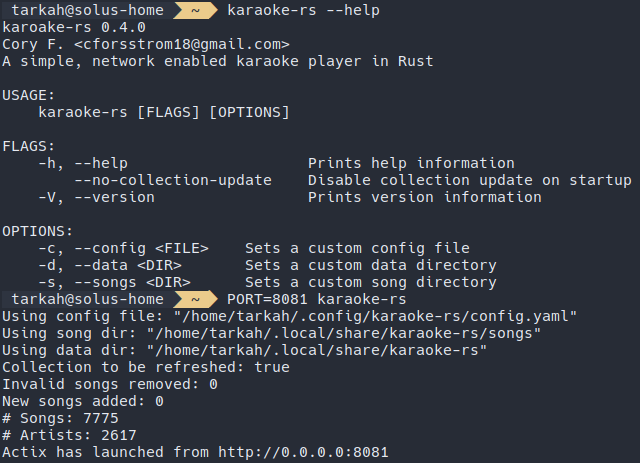
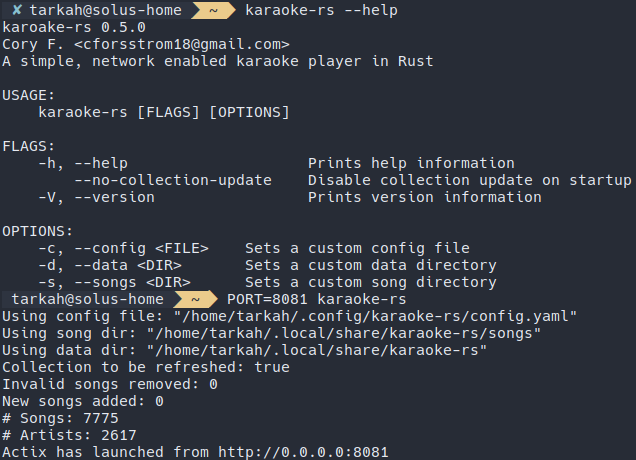
Bump to version 0.5.0
Changes:
- Switched from SFML to ggez for audio and video. Binaries can now run
out of the box on any platform!
- CI with Azue Pipelines!

diff --git a/src/main.rs b/src/main.rs
@@ -39,7 +39,7 @@ fn main() -> Result<(), failure::Error> {
 
 fn get_config() -> Result<Config, failure::Error> {
     let matches = App::new("karoake-rs")
-        .version("0.4.0")
+        .version("0.5.0")
         .author("Cory F. <cforsstrom18@gmail.com>")
         .about("A simple, network enabled karaoke player in Rust")
         .arg(

diff --git a/README.md b/README.md
@@ -2,19 +2,20 @@
 
 A simple, network enabled karaoke player in Rust. 
 
-Your karaoke collection can be browsed and queued to the player from a self served website. Currently only supports MP3+G (mp3 & corresponding cdg) files. Only tested on Linux and Windows, but pull requests are welcome to get working on OSX.
+Your karaoke collection can be browsed and queued to the player from a self served website. Currently only supports MP3+G (mp3 & corresponding cdg) files.
+
+**_Now built off [ggez](https://github.com/ggez/ggez)! No more dependency on SFML, the binaries should run out of the box on any system._**
 
 
 ## Setup
 ### Linux
-- Install SFML and CSFML bindings to run, required by rust-sfml -- see [link to help setup](https://github.com/jeremyletang/rust-sfml/wiki/Linux)
 - Download latest release binary or compile from source -- `cargo build --release`
 - Run `karaoke-rs --help` to see all arguments
 - Place your song collection at `~/.local/share/karaoke-rs/songs`, or specify location via `--songs path/to/song/directory`
 - Default configuration file is created at `~/.config/karaoke-rs/config.yaml`. This can be copied / changed and specified via `--config path/to/config.yaml`
 
 ### Windows
-- Download latest release
+- Download latest release binary or compile from source -- `cargo build --release`
 - Double click `karaoke-rs.exe` to run with default configuration. Run from command prompt / powershell `karaoke-rs.exe --help` to see all arguments
 - Place your song collection at `%APPDATA%\karaoke-rs\songs`, or specify location via `--songs C:\path\to\song\directory`
 - Default configuration file is created at `%APPDATA%\karaoke-rs\config.yaml`. This can be copied / changed and specified via `--config C:\path\to\config.yaml`
